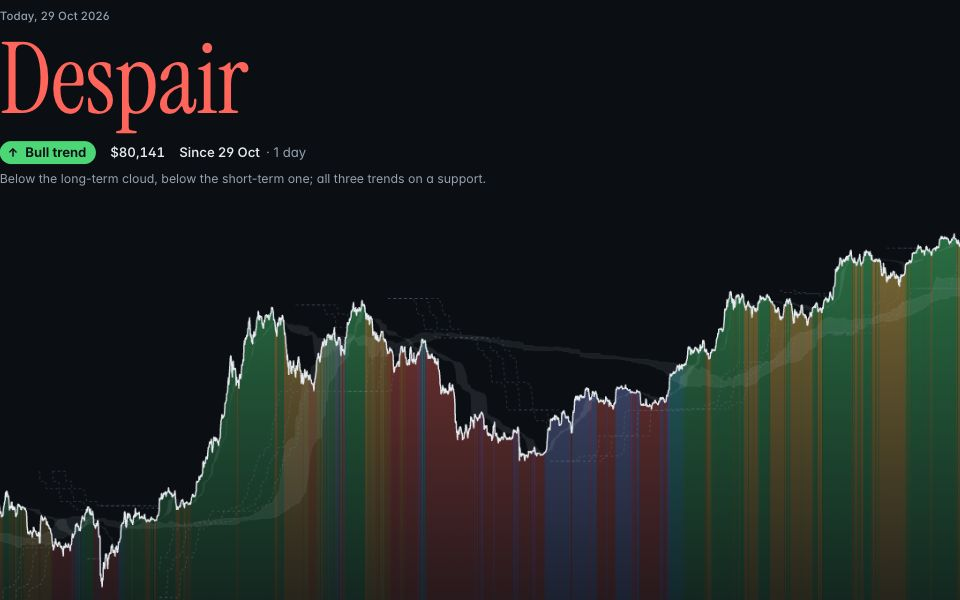
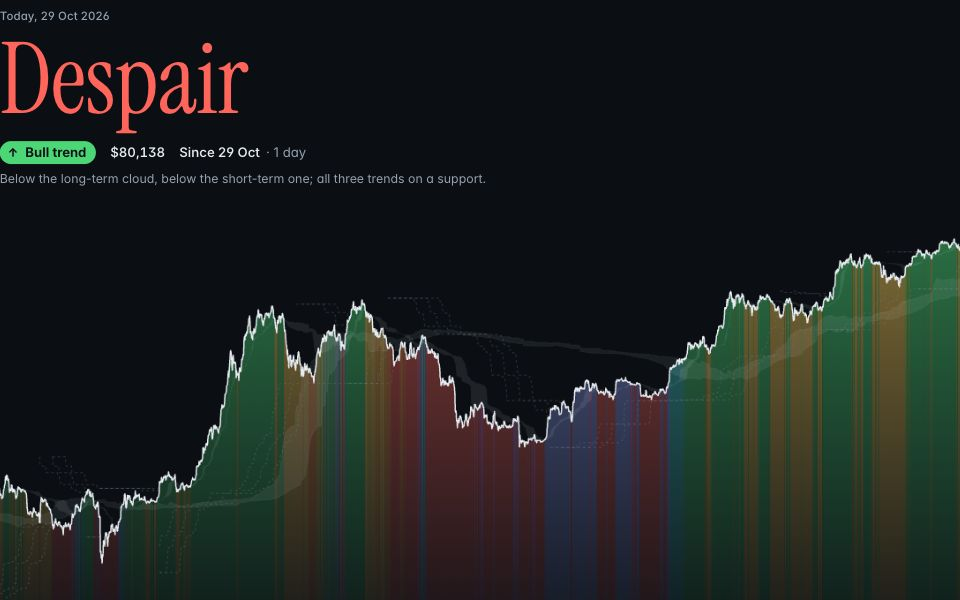
showcases: Compass, its chart's pane to the top, a way down under it, and the timeline tinted as the rest.
The chart's pane is the whole first screen: the day's line runs from its top, a drag or a press anywhere on it counts; its prices kept TOP_GAP (16px) under the words over it, and what's drawn of them clipped there (a trend's line past the range never runs over the words). Under the foot, "Where it's been and how it reads ↓", down to the compass (the foot measured, the chart shifted up for it; the parts kept 24px from the top when scrolled to; its reach for a finger short of the buttons over it). The strip under the compass at half strength, as the compass's cells and the pan bar are; its playhead as it was. Its share card and cover made again.

Codex's review: 2 findings (the trend lines over the words, the link's reach over the buttons'), fixed and checked by hand.

diff --git a/showcases/compass/index.html b/showcases/compass/index.html
@@ -447,6 +447,35 @@
         }
       }
 
+      /* The way down, under it all: what the rest of the page holds. */
+      .more {
+        position: relative;
+        display: flex;
+        flex-basis: 100%;
+        align-items: center;
+        justify-content: center;
+        gap: 6px;
+        height: 24px;
+        margin-top: 6px;
+        color: var(--faint);
+        font-size: 12.5px;
+        font-weight: 500;
+        text-decoration: none;
+
+        &:hover {
+          color: var(--ink);
+        }
+
+        /* (A finger's reach, unseen, short of the buttons' over it.) */
+        @media (pointer: coarse) {
+          &::before {
+            content: "";
+            position: absolute;
+            inset: -6px 0 -10px;
+          }
+        }
+      }
+
       .controls {
         display: flex;
         flex-wrap: wrap;
@@ -539,6 +568,10 @@
 
       main {
         padding: 56px 0 24px;
+      }
+
+      .part {
+        scroll-margin-top: 24px;
       }
 
       .part + .part {
@@ -977,13 +1010,14 @@
             <button type="button" data-span="0" aria-pressed="false">Max</button>
           </div>
         </div>
+        <a class="more" href="#atlas">Where it's been and how it reads <span aria-hidden="true">↓</span></a>
       </div>
     </div>
 
     <p class="sr" id="said" aria-live="polite"></p>
 
     <main class="shell">
-      <section class="part" aria-labelledby="atlas-title">
+      <section class="part" id="atlas" aria-labelledby="atlas-title">
         <header><h2 id="atlas-title">Where it's been</h2><p id="atlas-since"></p></header>
         <div class="atlas">
           <div>
@@ -1315,7 +1349,10 @@
       /** Its layout, in CSS pixels: room at the right for today's ring, the trend's lane, the dates' row. (No price
        * axis: the day's price is said above.) */
       const EDGE = 12, LANE = 4, YEARS = 30;
-      /** The canvas's size; the plot's top (under where it stands) and the foot's top, measured. */
+      /** The room between the words over the chart and its highest price. */
+      const TOP_GAP = 16;
+      /** The canvas's size, the whole first screen; the prices' top (its pane runs to the screen's, the prices kept
+       * under where it stands: TOP_GAP under it) and the foot's top, measured. */
       let width = 0, height = 0, plotTop = 0, footTop = 0;
       /** The plot's price range (logs), eased as the span's days change. */
       let range = { lo: 0, hi: 1 };
@@ -1359,6 +1396,7 @@
 
         ctx.save();
         ctx.beginPath();
+        // (The prices' drawing kept under the words over it: a trend's line can run past the range, above them.)
         ctx.rect(0, plotTop - 8, right, bottom - plotTop + 9);
         ctx.clip();
 
@@ -1462,7 +1500,7 @@
         if (seen) {
           const x = Math.round(xOf(day)) + 0.5, y = yOf(d.close[day]);
           ctx.fillStyle = paint.line;
-          ctx.fillRect(x - 0.5, plotTop, 1, bottom + 8 + LANE - plotTop);
+          ctx.fillRect(x - 0.5, 0, 1, bottom + 8 + LANE);
           ctx.beginPath();
           ctx.arc(x, y, 4.5, 0, Math.PI * 2);
           ctx.fillStyle = paint.states[d.state[day]];
@@ -1574,7 +1612,7 @@
         const box = chart.getBoundingClientRect();
         width = box.width;
         height = box.height;
-        plotTop = $("hero").getBoundingClientRect().bottom - box.top + 8;
+        plotTop = $("hero").getBoundingClientRect().bottom - box.top + TOP_GAP;
         footTop = $("foot").getBoundingClientRect().top - box.top;
         redraw();
       }
@@ -1938,7 +1976,8 @@
             for (let i = d.first; i <= d.last; ) {
               let j = i;
               while (j + 1 <= d.last && of[j + 1] === of[i]) j++;
-              base.fillStyle = colors[of[i]];
+              // (Tinted as the compass's cells and the pan bar are, not at full strength.)
+              base.fillStyle = withAlpha(colors[of[i]], 0.5);
               base.fillRect(BAND.side + (i - d.first) * per, y, (j - i + 1) * per, height);
               i = j + 1;
             }
